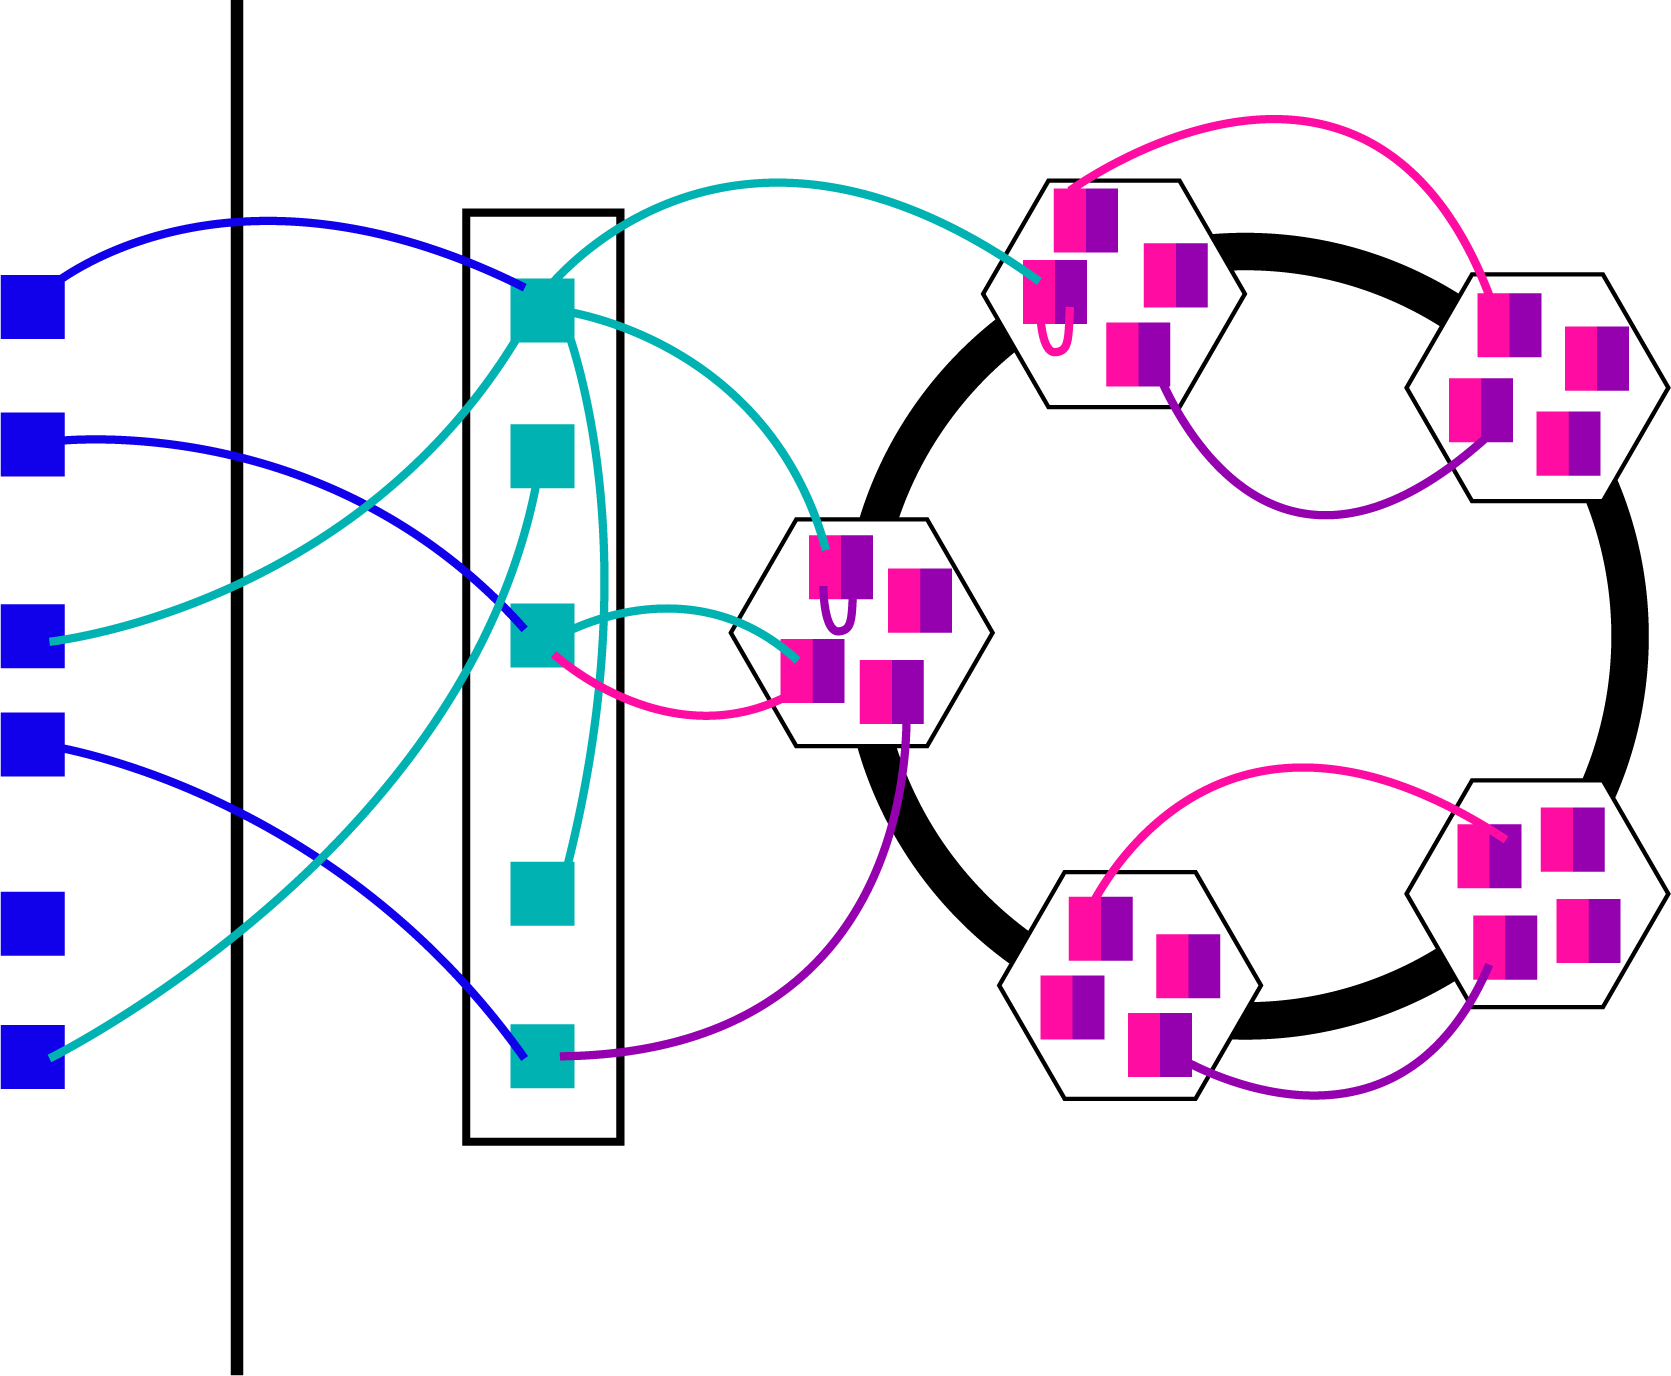
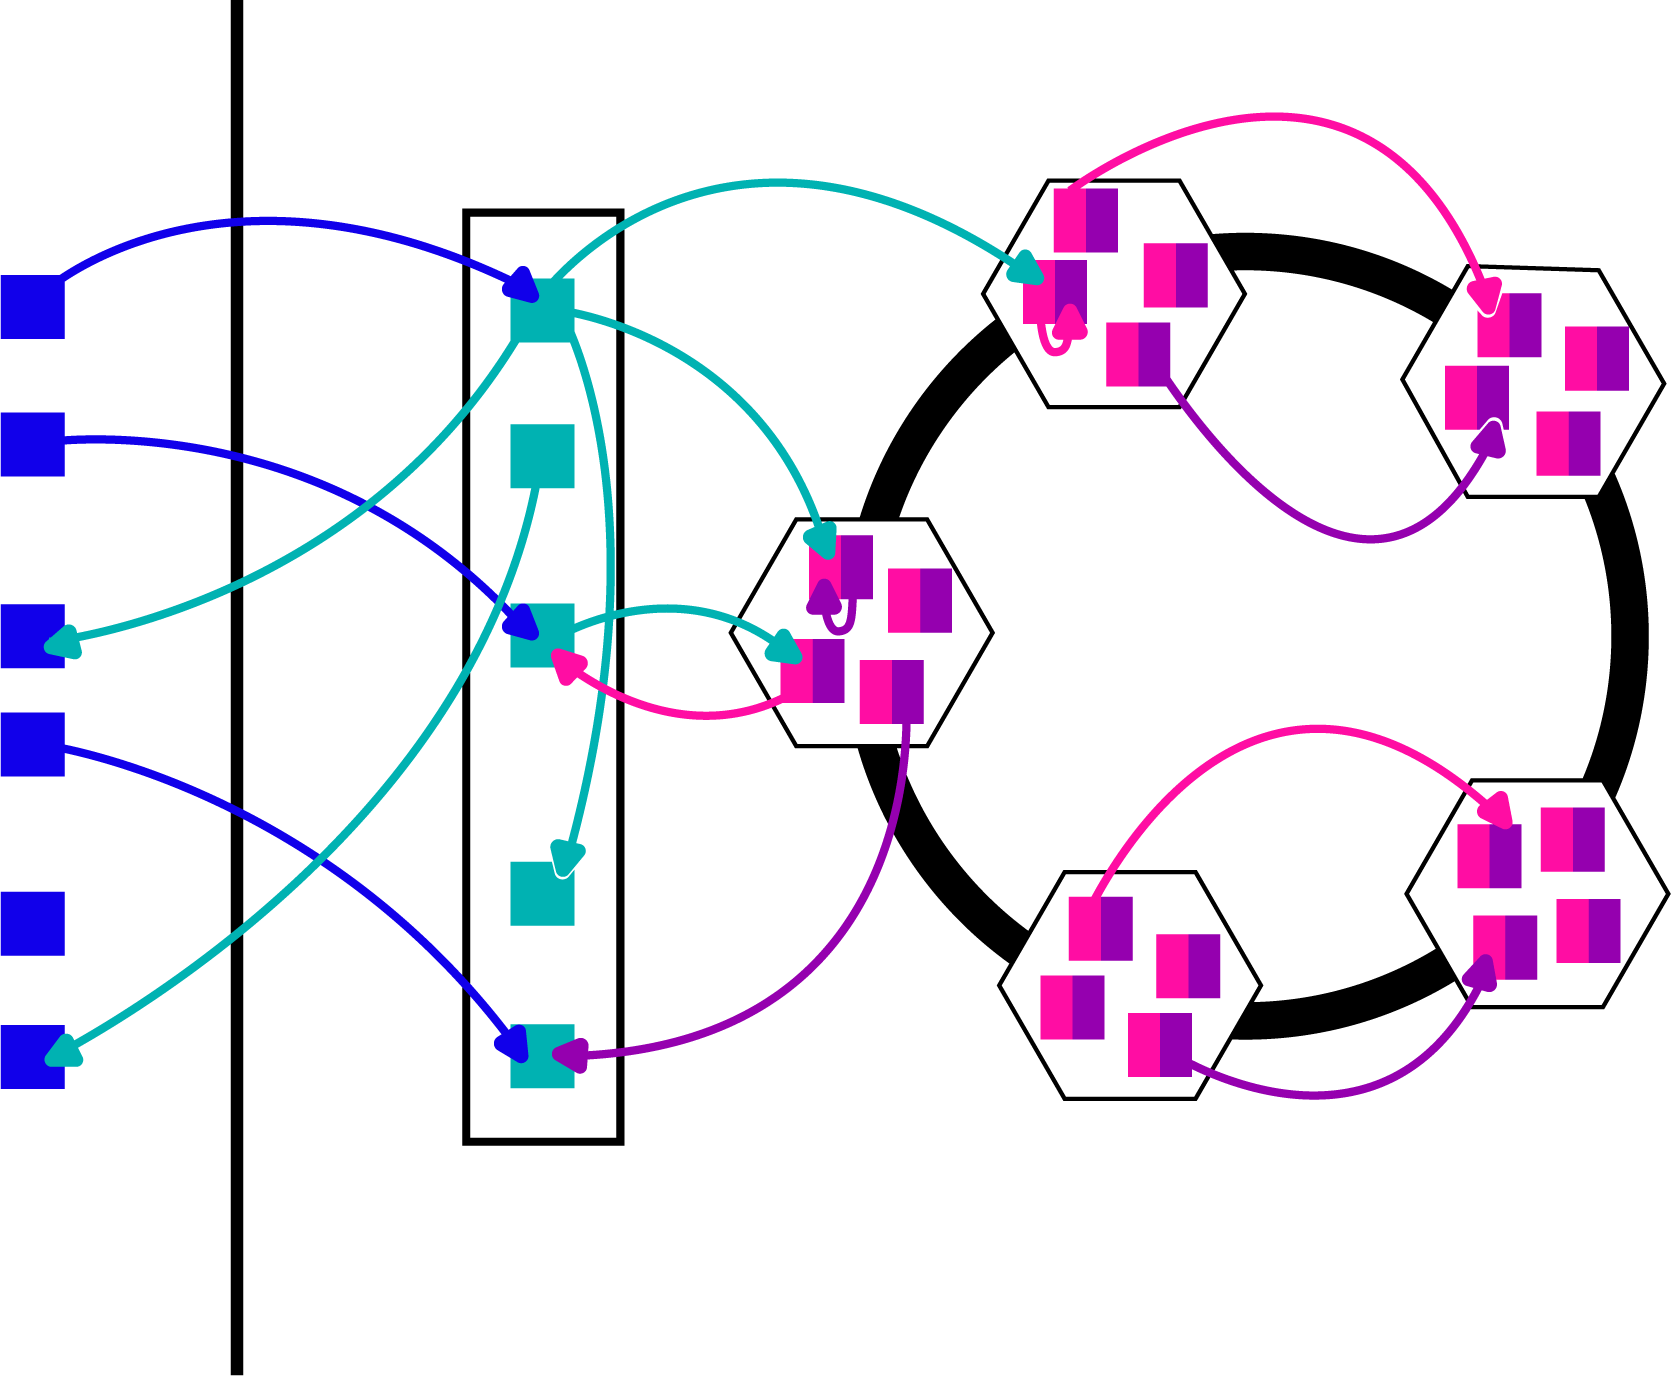
image_updated

diff --git a/Informe/informe.md b/Informe/informe.md
@@ -1,5 +1,5 @@
 # <center>Tweeter Distribuído 📱</center>
-
+![](img.png)
 ## Equipo:
 - Lázaro Daniel González Martínez
 - Alejandra Monzón Peña
@@ -125,6 +125,17 @@ Con el otro servidor que interactuan los TweeterServer es el EntryServer, el cua
 
 ![](img.png)
 
+En la imagen anterior se muestra una representación de la Red Dweeter:
+
+- Cuadrados: Computadoras
+    - Azul: `Client`
+    - Azul Cyan: `EntryServer`
+    - Rosado: `TweeterServer`
+    - Morado: `ChordServer`
+- Hexágono: Nodo del Chord
+- Anillo: Anillo del Chord
+- Líneas: Peticiones y respuestas entre los Servers 
+
 # Comunicación de Componentes
 
 
@@ -193,11 +204,11 @@ Cuando un nuevo `TweeterServer-ChordServer` se inserta al anillo del Chord este 
 
 Por este motivo, una vez insertado al anillo, la parte `ChordServer` le informa a la `TweeterServer` de ese ordenador mediante un mensaje con los datos `chord_id`, `succesors` y `siblings`, que son el identificador que tienen dentro del anillo, una lista con los IPs de sus sucesores en el anillo y una lista con los IPs de las otras máquinas de su propio Nodo(hermanos), respectivamente, esta última será vacía en el caso que sea el primero de ese Nodo. Basándose en esta información, el `TweeterServer` establecerá comunicación con alguno de sus hermanos en caso de tener, o con alguno de sus sucesores en caso contrario, creando un nuevo hilo para dicha comunicación.
 
-
 Para realizar una transferencia de datos correcta, el orden en que se transfieran las tablas de la base de datos importa, debido a que los usuarios sun llaves foráneas en la mayoría de la tablas, la tabla de ususarios ha de ser la primera en copiarse. De este modo se van transfiriendo bloques de datos entre una computadora y la otra hasta que se hayan enviado toda la base de datos.
 
 >Para la transferencia de datos se requiere que el servidor nuevo envíe su `chord_id` para que así el otro servidor sepa que porción de la base de datos enviar. 
-Los datos se transfieren en bloques de 20 filas de la tabla cada vez.
+>
+>Los datos se transfieren en bloques de 20 filas de la tabla cada vez.
 
 # Tolerancia a Fallas
 
@@ -221,4 +232,6 @@ Un sistema distribuido por lo general puede presentar 3 tipos de fallas: las tra
 
 ## Transparencia de las operaciones
 
-Cuando un cliente accede a cualquiera de las funcionalidades de Dweeter, todas las acciones que el sistema realice se mantienen transparentes para él. La única información que conoce un usuario es que se está comunicando con un servidor al que le está haciendo peticiones y que este le envía respuestas, pero jamás contacta siquiera con los `ChordServer-TweeterServer`, ni conoce que su información está fragmentada en distintas computadoras de la red. 
+Cuando un cliente accede a cualquiera de las funcionalidades de Dweeter, todas las acciones que el sistema realice se mantienen transparentes para él. La única información que conoce un usuario es que se está comunicando con un servidor al que le está haciendo peticiones y que este le envía respuestas, pero jamás contacta siquiera con los `ChordServer-TweeterServer`, ni conoce que su información está fragmentada en distintas computadoras de la red.
+
+De igual modo los usuarios no se enteran de que se agreguen o caidgan servidores en la red, ni de la cantidad de intentos de comunicación faliidos que puedan ocurrir en lo que se resuelven los datos para responder a sus peticiones.
